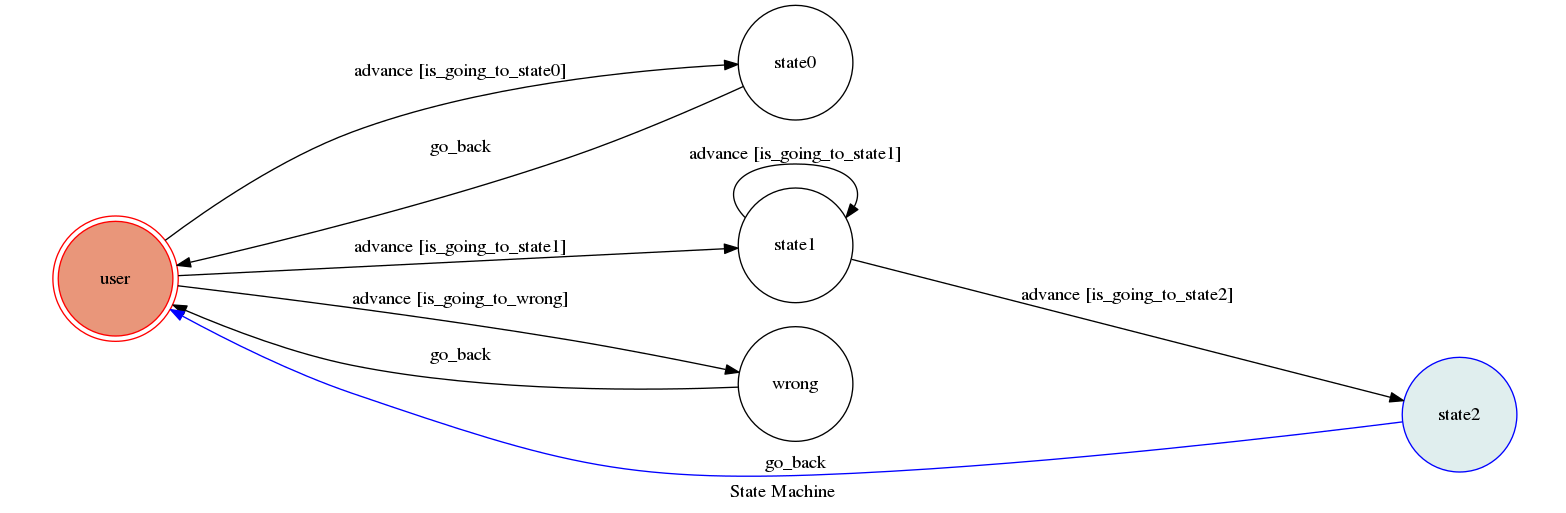
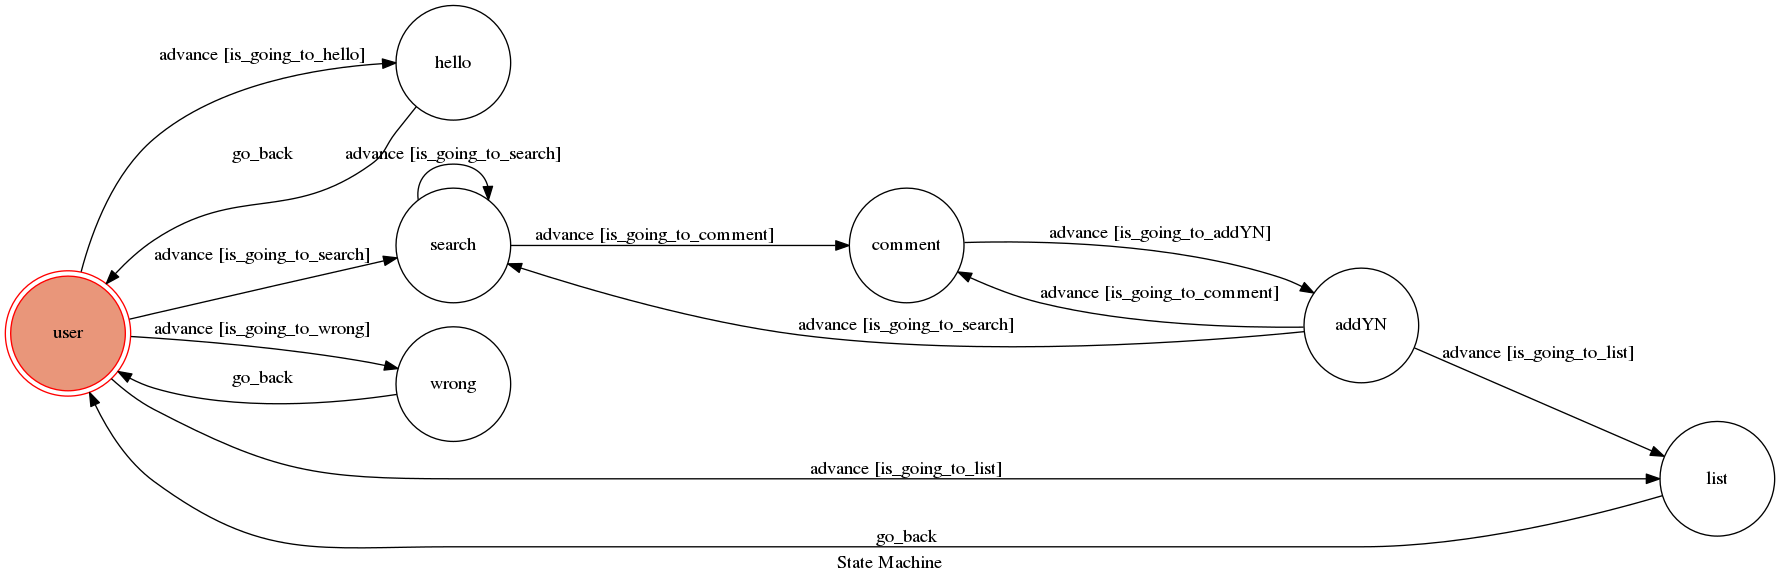
finish v1

diff --git a/fsm.py b/fsm.py
@@ -3,6 +3,8 @@ from utils import send_text_message
 import search
 
 year = ["2016", "2017", "2018"]
+mylist = []
+addname = []
 
 class TocMachine(GraphMachine):
     def __init__(self, **machine_configs):
@@ -11,7 +13,7 @@ class TocMachine(GraphMachine):
             **machine_configs
         )
 
-    def is_going_to_state0(self, event):
+    def is_going_to_hello(self, event):
         if event.get("message"):
             text = event['message']['text']
             return text.lower() == 'hi'
@@ -20,30 +22,39 @@ class TocMachine(GraphMachine):
     def is_going_to_wrong(self, event):
         if event.get("message"):
             text = event['message']['text']
-            return text.lower() not in year and text.lower() != "hi"
+            return text.lower() not in year and text.lower() != "hi" and text.lower() != "list"
         return False
 
-    def is_going_to_state1(self, event):
+    def is_going_to_search(self, event):
         if event.get("message"):
             text = event['message']['text']
             return text.lower() in year
         return False
 
-    def is_going_to_state2(self, event):
+    def is_going_to_list(self, event):
+        if event.get("message"):
+            text = event['message']['text']
+            return text.lower() == "list"
+        return False
+
+    def is_going_to_comment(self, event):
         if event.get("message"):
             text = event['message']['text']
             return int(text) > 0 and int(text) <= len(search.name)
         return False
 
-    def on_enter_state0(self, event):
-        print("I'm entering state0")
+    def is_going_to_addYN(self, event):
+        if event.get("message"):
+            text = event['message']['text']
+            return text.lower() == "y" or text.lower() == "n"
+        return False
+
+    def on_enter_hello(self, event):
+        print("I'm entering hello")
 
         sender_id = event['sender']['id']
         send_text_message(sender_id, "hi, choose 2016-2018 for korea drama ;)")
         self.go_back()
-
-    def on_exit_state0(self):
-        print('Leaving state0')
 
     def on_enter_wrong(self, event):
         print("I'm entering wrong")
@@ -52,12 +63,8 @@ class TocMachine(GraphMachine):
         send_text_message(sender_id, "Searching error... please choose 2016-2018 again ><")
         self.go_back()
 
-    def on_exit_wrong(self):
-        print('Leaving wrong')
-
-
-    def on_enter_state1(self, event):
-        print("I'm entering state1")
+    def on_enter_search(self, event):
+        print("I'm entering search")
 
         sender_id = event['sender']['id']
         text = event['message']['text']
@@ -70,12 +77,40 @@ class TocMachine(GraphMachine):
         send_text_message(sender_id, "%s" % temp)
         send_text_message(sender_id, "You can choose 1-%d to see comment of drama ;)" % len(search.name))
 
-    def on_enter_state2(self, event):
-        print("I'm entering state2")
+    def on_enter_list(self, event):
+        print("I'm entering list")
+
+        sender_id = event['sender']['id']
+        if len(mylist) == 0:
+            send_text_message(sender_id, "List is empty, add some ! <3")
+            send_text_message(sender_id, "Choose 2016-2018 to find ;)")
+        else:
+            temp = "Your list <3 \n"
+            for i in range(len(mylist)):
+                temp += str(i+1) + '. ' +mylist[i] + '\n'
+            send_text_message(sender_id, "%s" % temp)
+            send_text_message(sender_id, "Choose 2016-2018 to add more ! ;)")
+
+        self.go_back()
+
+    def on_enter_comment(self, event):
+        print("I'm entering comment")
 
         sender_id = event['sender']['id']
         text = event['message']['text']
         send_text_message(sender_id, "You choose %s, wait a minute please <3" % search.name[int(text)-1])
         send_text_message(sender_id, "%s" % search.comment[int(text)-1])
-        self.go_back()
+        send_text_message(sender_id, "Do you want to add %s to your list ? (Y or N) ;)" % search.name[int(text)-1])
+        addname.clear()
+        addname.append(search.name[int(text)-1])
+
+    def on_enter_addYN(self, event):
+        sender_id = event['sender']['id']
+        text = event['message']['text']
+        if text.lower() == "y":
+            mylist.append(addname[len(addname)-1])
+            send_text_message(sender_id, "Add completely <3")
+            send_text_message(sender_id, "Continue choosing drama or check your list by typing LIST ;)")
+        else:
+            send_text_message(sender_id, "Continue choosing drama to find the drama you like ;)")
 

diff --git a/app.py b/app.py
@@ -4,19 +4,13 @@ from fsm import TocMachine
 VERIFY_TOKEN = "123"
 
 machine = TocMachine(
-    states=[
-        'user',
-        'state0',
-        'state1',
-        'state2',
-        'wrong'
-    ],
-    transitions=[
+    states = ['user', 'hello', 'search', 'comment', 'addYN', 'wrong', 'list'],
+    transitions = [
         {
             'trigger': 'advance',
             'source': 'user',
-            'dest': 'state0',
-            'conditions': 'is_going_to_state0'
+            'dest': 'hello',
+            'conditions': 'is_going_to_hello'
         },
         {
             'trigger': 'advance',
@@ -27,27 +21,57 @@ machine = TocMachine(
         {
             'trigger': 'advance',
             'source': 'user',
-            'dest': 'state1',
-            'conditions': 'is_going_to_state1'
+            'dest': 'search',
+            'conditions': 'is_going_to_search'
         },
         {
             'trigger': 'advance',
-            'source': 'state1',
-            'dest': 'state1',
-            'conditions': 'is_going_to_state1'
+            'source': 'search',
+            'dest': 'search',
+            'conditions': 'is_going_to_search'
         },
         {
             'trigger': 'advance',
-            'source': 'state1',
-            'dest': 'state2',
-            'conditions': 'is_going_to_state2'
+            'source': 'search',
+            'dest': 'comment',
+            'conditions': 'is_going_to_comment'
+        },
+        {
+            'trigger': 'advance',
+            'source': 'comment',
+            'dest': 'addYN',
+            'conditions': 'is_going_to_addYN'
+        },
+        {
+            'trigger': 'advance',
+            'source': 'addYN',
+            'dest': 'list',
+            'conditions': 'is_going_to_list'
+        },
+        {
+            'trigger': 'advance',
+            'source': 'addYN',
+            'dest': 'search',
+            'conditions': 'is_going_to_search'
+        },
+        {
+            'trigger': 'advance',
+            'source': 'addYN',
+            'dest': 'comment',
+            'conditions': 'is_going_to_comment'
+        },
+        {
+            'trigger': 'advance',
+            'source': 'user',
+            'dest': 'list',
+            'conditions': 'is_going_to_list'
         },
         {
             'trigger': 'go_back',
             'source': [
-                'state0',
+                'hello',
                 'wrong',
-                'state2'
+                'list'
             ],
             'dest': 'user'
         }
